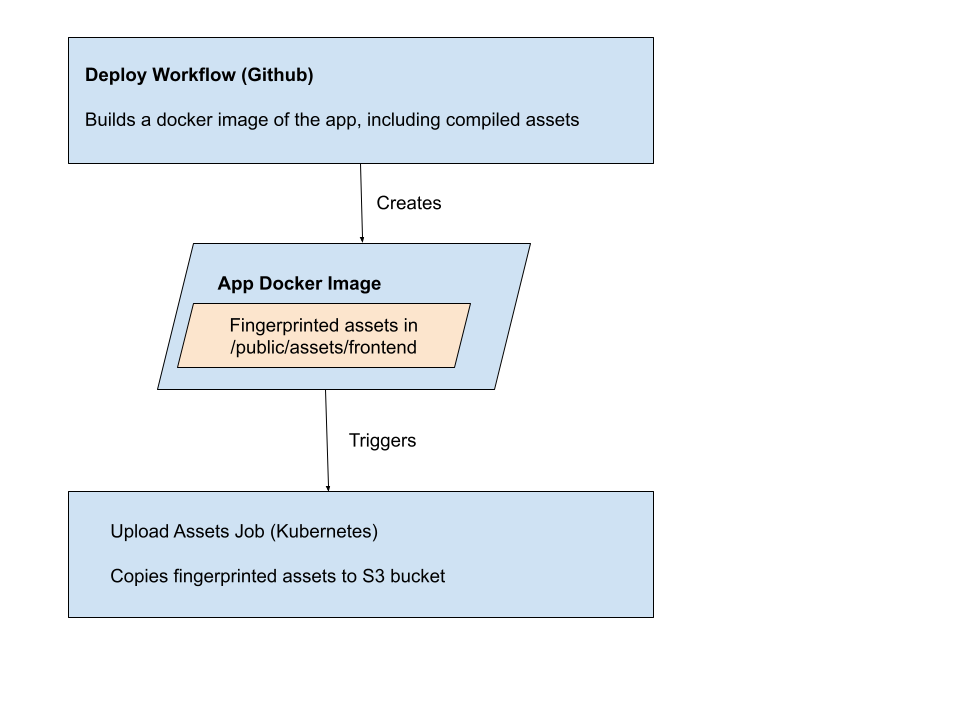
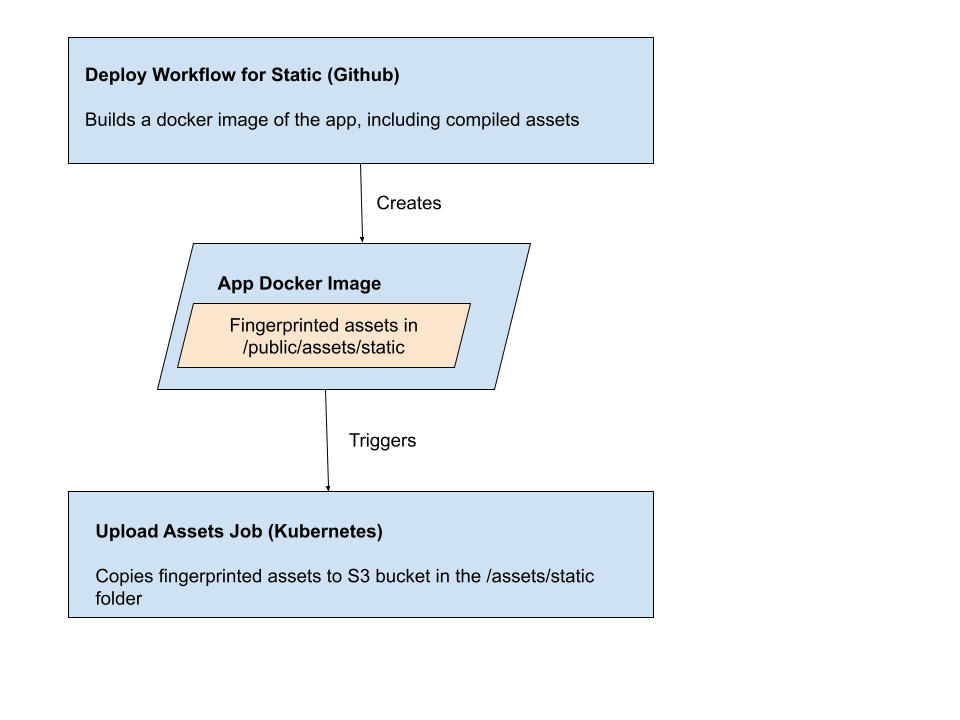
Update to simplify sharing of assets

diff --git a/rfc-176-replacing-static.md b/rfc-176-replacing-static.md
@@ -8,7 +8,7 @@ status_last_reviewed:
 
 ## Summary
 
-We propose two new gems: `govuk_web_banners` and `govuk_web_layout` which will replace the [slimmer] gem, the [static] application, and will give us the option if necessary to remove parts of the [govuk_publishing_components] gem that might not belong there. Between them they will handle static’s four main responsibilities: banners, static assets, layouts, and headers/footers, but in a less astonishing way.
+We propose two new gems: `govuk_web_banners` and `govuk_web_layout` which will replace the [slimmer] gem, the [static] application, and will give us the option if necessary to remove parts of the [govuk_publishing_components] gem that might not belong there. Between them they will handle static’s four main responsibilities: banners, static assets, layouts, but in a less astonishing way. They will also simplify configuration of the shared header and footer content.
 
 ## Problem
 
@@ -16,7 +16,7 @@ The `static`/`slimmer`/`govuk_publishing components` triumviurate is a clever wa
 
 Making a remote call through middleware to get a layout which the app already has is not an idiomatic rails way of rendering a page, and it presents a complexity barrier to changes to the frontend apps.
 
-The reason for this complex system is that it gives `static` the ability to centralise static assets and handle adding various banners into apps. Those abilities haven't been trivial to replace. Previous RFCs have touched on: a replacing `static` with a gem ([RFC-84]), moving the content that populates header and footer into the content store ([RFC-118]), adding shared asset folders ([RFC-91]) or the gordian knot solution of merging all affected apps ([RFC-174]). Although ultimately these RFCs were not implmented, the good news is that they were all pretty good solutions to part of the problem, they just needed some advancements in how our apps were built and deployed (which we now have). We’ve also established that some of the things static does can be done at a slightly slower pace and still be acceptable (for instance, that a 15 minute lag between the emergency banner being deployed and being visible site-wide is acceptable ([RFC-144])).
+The reason for this complex system is that it gives `static` the ability to centralise static assets and handle adding various banners into apps. Those abilities haven't been trivial to replace. Previous RFCs have touched on: a replacing `static` with a gem ([RFC-84]), adding shared asset folders ([RFC-91]) or the gordian knot solution of merging all affected apps ([RFC-174]). They've also looked at related problems of shared configuration by moving the content that populates header and footer into the content store ([RFC-118]). Although ultimately these RFCs were not implmented, the good news is that they were all pretty good solutions to part of the problem, they just needed some advancements in how our apps were built and deployed (which we now have). We’ve also established that some of the things static does can be done at a slightly slower pace and still be acceptable (for instance, that a 15 minute lag between the emergency banner being deployed and being visible site-wide is acceptable ([RFC-144])).
 
 
 ## Solutions
@@ -51,34 +51,33 @@ Our proposal is that we include the current duplicated recruitment banner config
 
 GOV.UK uses the standard rails assets pipeline for creation of assets, in which at asset compile time a fingerprint is generated for each asset based on the asset’s content, and during HTML page rendering the base names of the assets are replaced with the fingerprinted version. This allows clients to implement a pretty simple caching policy - they can always cache a given asset for as long as they like, because the asset’s name will change if the content changes - if the client doesn’t already have that fingerprinted file, they will need to download it.
 
-Asset pre-compilation happens when the container image is built (during the ‘deploy’ GitHub Actions workflow). This process generates the compiled assets and the Sprockets manifest. The manifest is the mechanism for Rails to map the original asset name (`crown.png`) to the fingerprinted asset name (`crown-b2ba232ade53223.png`), so the deployed app has a record of everything that was compiled as part of its assets:precompile step.
+Asset pre-compilation happens when the container image is built (during the ‘deploy’ GitHub Actions workflow). This process generates the compiled assets and the Sprockets manifest. The manifest is the mechanism for Rails to map the original asset name (`search-button.png`) to the fingerprinted asset name (`search-button-b2ba232ade53223.png`), so the deployed app has a record of everything that was compiled as part of its assets:precompile step.
 
-Upon deployment into the Kubernetes cluster, a job runs which copies anything from `/app/public/assets/<name of app>` into an S3 bucket `s3://govuk-app-assets-<environment>/assets/<name of app>`. [Fastly maps] any call for (e.g.) `https://www.gov.uk/assets/` to that bucket, so a request for `https://www.gov.uk/assets/frontend/crown-b2ba232ade53223.png` will be served from that s3 bucket.
-
+Upon deployment into the Kubernetes cluster, a job runs which copies anything from `/app/public/assets/<name of app>` into an S3 bucket `s3://govuk-app-assets-<environment>/assets/<name of app>`. [Fastly maps] any call for (e.g.) `https://www.gov.uk/assets/` to that bucket, so a request for `https://www.gov.uk/assets/static/search-button-b2ba232ade53223.png` will be served from that s3 bucket.
 
 ![Current asset deploy pathway](rfc-176/current_govuk_asset_pathway.png)
 
-#### What this means for shared assets
-Because the upload-assets job in [govuk-helm-charts] includes the app name, there currently isn’t a mechanism for apps to upload assets in a shared context. If two apps both precompile a CSS file for the Table component, for instance, the fingerprint will be the same, but the path will be different, so a client that views two pages with Tables on (one in [frontend], one in [government-frontend]) will download the same file twice.
+#### What this means for `static`'s assets
 
-However, because all of these apps upload to different folders in the same S3 bucket, it would be relatively easy to add a second step to the upload which took assets from (say) `/app/public/assets/shared` on the deployed images and upload that to a shared folder. Because the same asset compiled in two different apps ends up with the same name, the second app’s uploaded asset would overwrite the first one with the exact same name and data. As long as mechanisms were in place to prevent confusion from two apps uploading at the same time (this may already be present in S3), we could safely write to the same shared assets directory.
+Because the upload-assets job in [govuk-helm-charts] includes the app name, there currently isn’t a mechanism for apps to upload assets in a shared context. If we move `static`'s assets into a gem, and two apps both precompile the gem's search-button.png, for instance, the fingerprint will be the same, but the path will be different, so a client that views two pages with the search button (one in [frontend], one in [government-frontend]) will download the same file twice.
 
-#### How will we do this in practice?
-Although sprockets-rails wants to put things in one directory (the assets.prefix directory configured in application.rb), it is possible to split assets by source by modifying the Sprockets::Asset class to return a digest path with different prefixes based on the asset name. Since asset engine gems tend to be namespaced (govuk_publishing_components is, for instance), we can use the gem name to determine whether a thing should go into shared or not. If the asset starts with a gem name on a list we provide, it can be prefixed with /shared, and if not it can be prefixed with the application name as usual.
+However, because all of these apps upload to different folders in the same S3 bucket, it would be relatively to just remove the app name from the path, so that all assets were just compiled into `/app/public/assets` on the deployed images and upload that to a shared folder (indeed, this is the default for rails, so we could actually remove a configuration line from every app). Because the same asset compiled in two different apps ends up with the same name, the second app’s uploaded asset would overwrite the first one with the exact same name and data. S3 writes are transactional, so two apps uploading at the exact same time should not be a problem.
 
-Ideally we’d do this by subclassing the Sprockets environment (which is responsible for loading Assets) to provide a modified class, but at worst we could do it by monkeypatching (there’s a proof of concept of this).
+#### Additional benefits
+
+Moving to this simpler compilation method also allows apps to share assets provided by other gems (like the `govuk_publishing_components` gem), improving the end-user experience still further.
 
 ![Proposed asset deploy pathway](rfc-176/proposed_govuk_asset_pathway.png)
 
 ### Layouts (move to `govuk_web_layout`)
-All of the layouts in `static` are banner-aware configuration wrappers around a call to the public layout component included in the [govuk_publishing_components] gem. In practise this means that applications are having to make network calls to ask another application to return them a layout that they already have access to, and could easily configure themselves if necessary.
+All of the layouts in `static` are banner-aware configuration wrappers around a call to the public layout component included in the `govuk_publishing_components` gem. In practise this means that applications are having to make network calls to ask another application to return them a layout that they already have access to, and could easily configure themselves if necessary.
 
 We propose that to start with we replicate this layout configuration in the gem (so that there is little additional configuration needed in the host application), and at a later stage we audit the layouts to determine if the additional configuration is something that can be provided in a default load-time step and explicitly overridden by the applications. This should give us more flexibility in terms of personalisation.
 
-### Header and Footer Content (move to `govuk_web_layout`)
-Updating header and footer content is a developer task in `static` - there are no content items that can be edited in the publishing apps. Ideally we’d prefer this not to be the case, but that’s out of the scope of this current document.
+### Header and Footer Content (move into `govuk_web_layout` from `govuk_publishing_components` and `frontend`)
+Updating header and footer content is a developer task in `govuk_publishing_components` and in `frontend` - there are no content items that can be edited in the publishing apps. Ideally we’d prefer this not to be the case, but that’s out of the scope of this current document.
 
-We propose for the moment moving the header and footer content into the gem, where it can be included as part of the layouts also provided by the gem. This gives us a similar developer experience to today (in that editing the content is in one place), while allowing us to remove that functionality from [static].
+We propose for the moment moving the header and footer content into the gem, where it can be included as part of the layouts also provided by the gem. This gives us an improved developer experience to today (in that editing the content would be in one place), while allowing us to remove that configuration from `govuk_publishing_components` and in `frontend`.
 
 ### Additional Considerations
 
@@ -86,7 +85,7 @@ Adding a couple more gems to every frontend app may mean that frontend developme
 
 ## Proposed Roadmap
 
-There are two initial streams, reflecting the fact that the gems could potentially be worked on independently. The work in each stream is arranged so that even if we don’t take the ultimate step, we’ll still be doing useful work. After these streams are complete, a final stream of work can retire `static`.
+There are two initial streams, reflecting the fact that the gems could potentially be worked on independently. The work in each stream is arranged so that even if we don’t take the ultimate step, we’ll still be doing useful work. After these streams are complete, a final stream of work can retire `static`. There is also an optional stream to share assets from other gems between the apps, which could be started before or after the otherk work streams.
 
 ### Stream 1: Banner Gem
 - Create prototype banner gem.
@@ -96,12 +95,16 @@ There are two initial streams, reflecting the fact that the gems could potential
 - Move current global banner code code into the gem, and use that code in `static`
 - Convert the global banner code to use the same Redis system that the emergency banner uses.
 
-### Stream 2: Layout/Shared Asset Gem
+### Stream 2: Layout Gem
 - Create prototype layout gem
-- Trial moving shared assets into the gem, and allowing a host app to compile them into a shared asset bucket.
+- Trial moving static's assets into the gem, and allowing a host app to compile them into the shared asset bucket.
 - Add a second app to the trial, to ensure that the shared components can be accessed by both.
 - Trial adding most common layout into gem (this may require some progress on the banner gem so that we can include the banner code as part of the common layout)
 - Compare application with layouts from gem with similar app with layout from static.
+- Move header/footer configuration from the publishing components gem into the layout gem.
+
+### Optional Stream: Shared assets in other apps
+- Trial simplifying how other apps compile their assets so that they put them in the assets root rather than in subfolders.
 
 ### Final Stream: Retire static
 
@@ -109,6 +112,19 @@ There are two initial streams, reflecting the fact that the gems could potential
 - If trial is successful, move remaining apps to the new system.
 - Retire `static`/`slimmer`
 
+## When Would These Gems Be Retired?
+
+It's worth adding a little bit about what the predicted lifespan of these gems would be, so that we have a clear idea of when it would make sense to retire, merge, or add to them.
+
+### The `govuk_web_banner` gem
+
+The banner gem is useful as long as there are multiple front-end apps that need to render the various banners. At the moment this is _all_ frontend apps for the emergency and global banners, and a subset for the recruitment banners. If that subset (or all) of the frontend apps were merged, we should consider whether to move the gem into that combined app. We could also merge this gem into the layout gem, given that most of the frontend apps relying on the banner gem would ultimately be using the layout gem too.
+
+It's also worth noting that the components used by this gem are _only_ used by this gem at the moment. If we think that is likely to be the case forever, we could move them into this gem and out of `govuk_publishing_components`.
+
+### The `govuk_web_layouts` gem
+
+Most of the work of this gem is configuration of the `public_layout` component. It might be that that configuration would be better done by individual code in the various frontend apps (for instance, configuration sets only used in one app don't need to be in the gem). As the number of frontend apps decreases, we should consider whether it's better to keep that configuration code in this gem or move it into the individual apps and allow the gem to reduce scope. If we follow this path, we might get to the point where only static assets are included in the gem, in which case it might be worth considering moving them into another gem with smaller scope, or handling them elsewhere.
 
 [content-store]: https://github.com/alphagov/content-store
 [frontend]: https://github.com/alphagov/frontend
